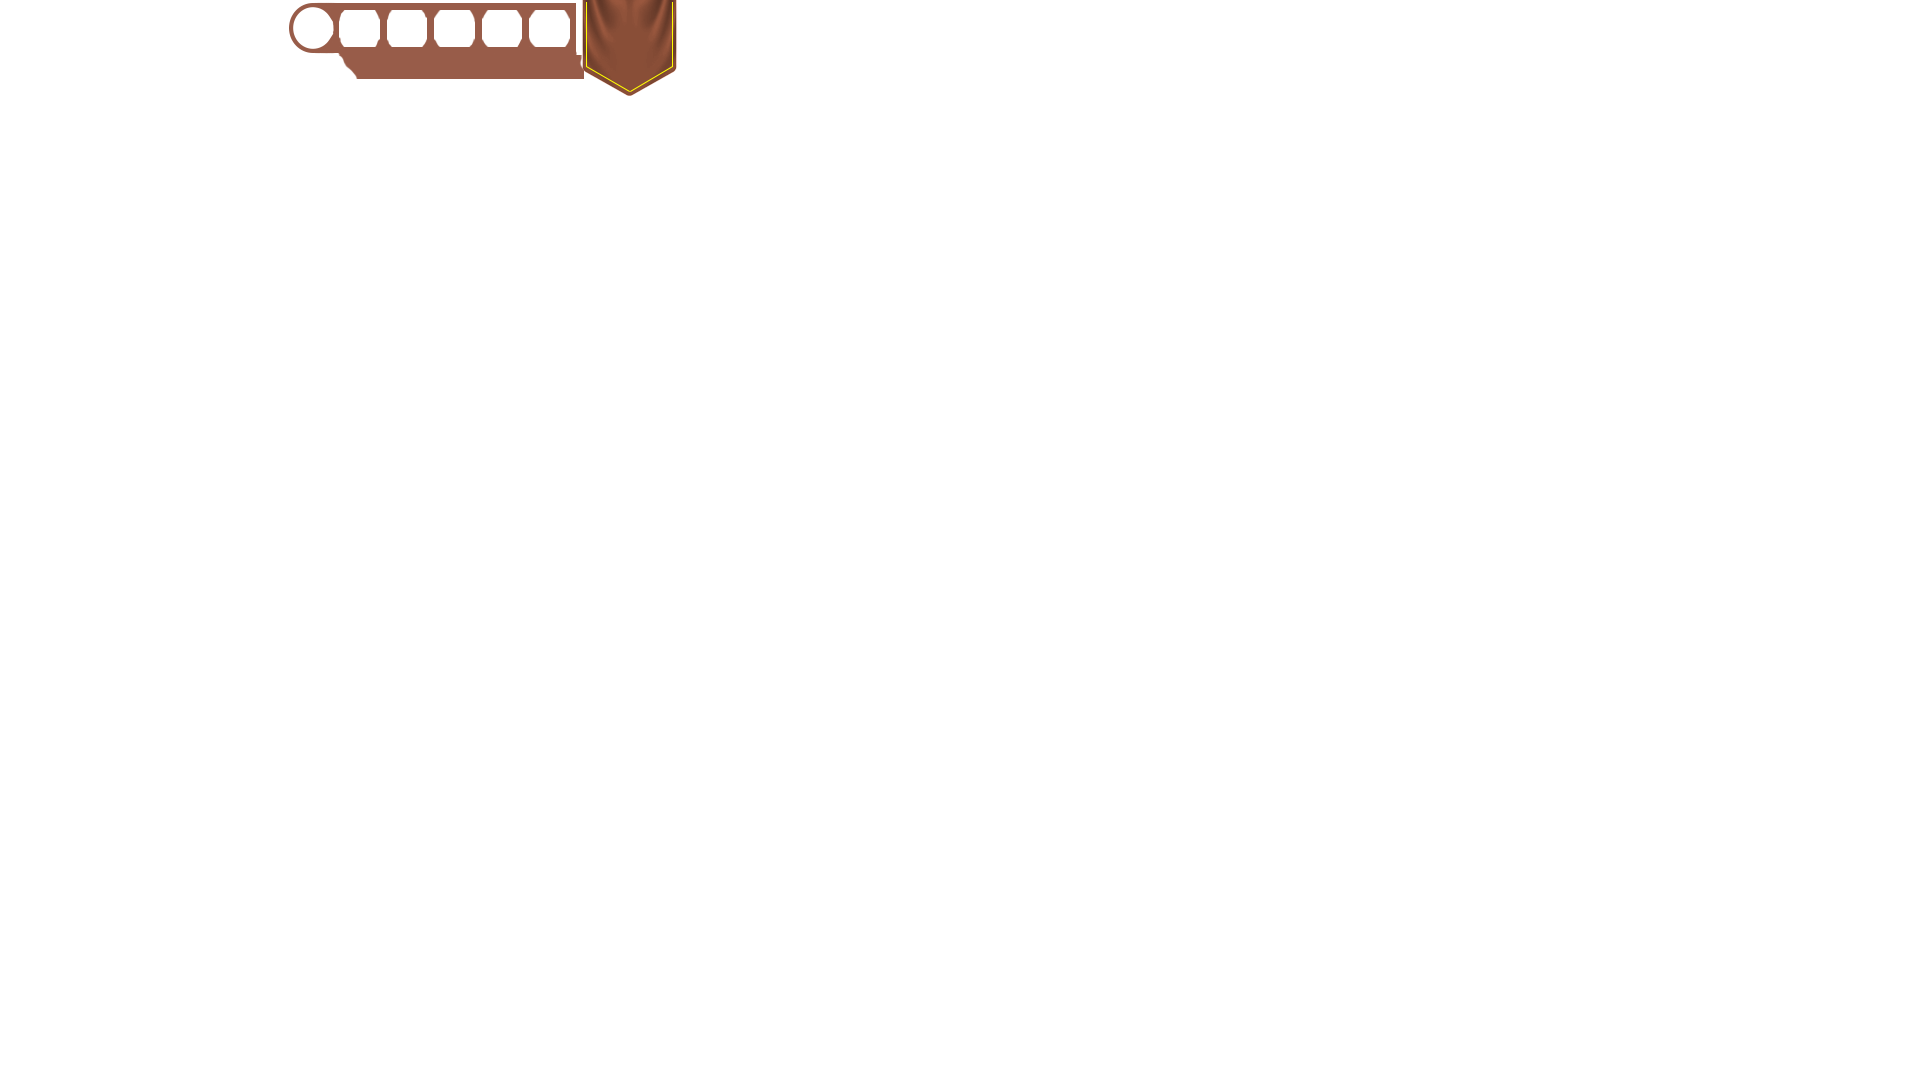
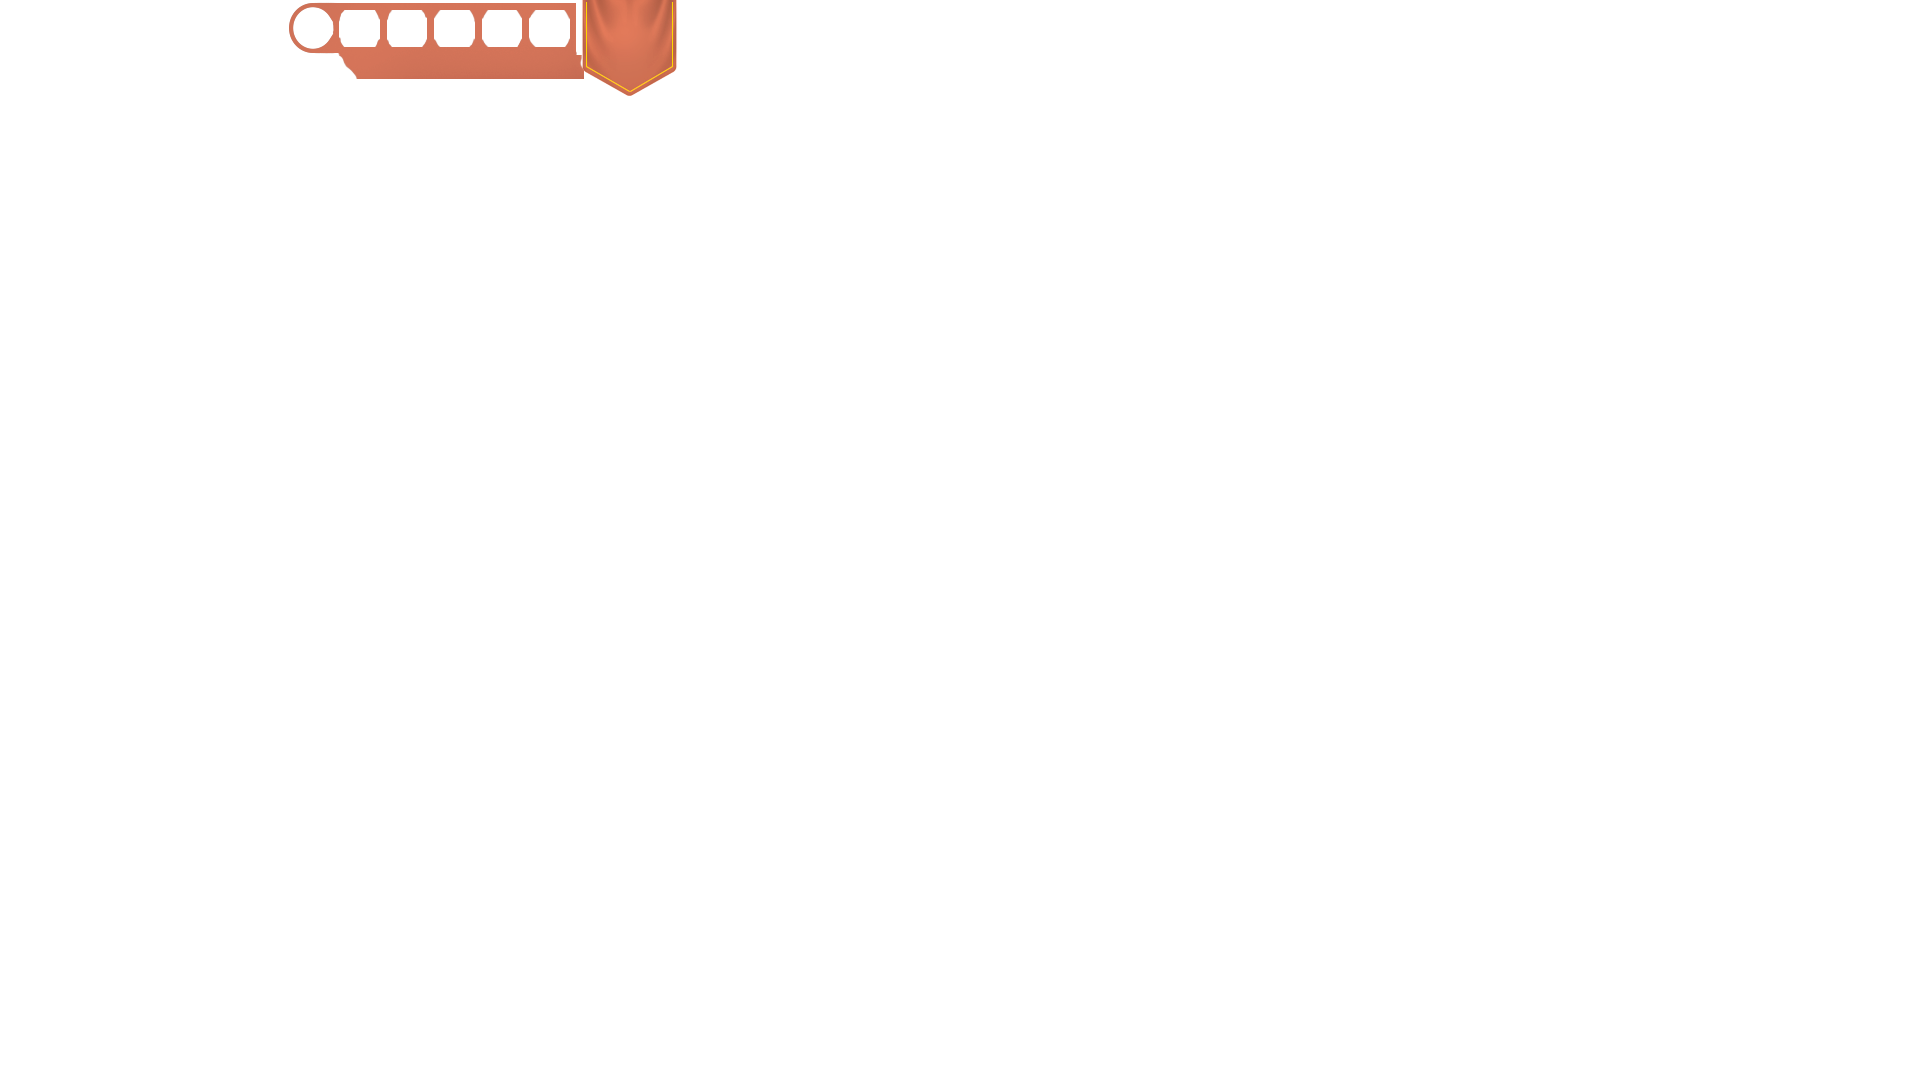
refactor: :recycle: change colors hexadecimal and rename wine and turquoise

Changed region(s): [[0.1562, 0.0, 0.375, 0.0917]]

diff --git a/AoM/dados.html b/AoM/dados.html
@@ -254,8 +254,8 @@
             <option value="ciano">Ciano</option>
             <option value="rosa">Rosa</option>
             <option value="laranja">Laranja</option>
-            <option value="magenta">Magenta</option>
-            <option value="verdeagua">Verde Agua</option>
+            <option value="vinho">Vinho</option>
+            <option value="turquesa">Turquesa</option>
             <option value="salmao">Salmao</option>
             <option value="roxo">Roxo</option>
             <option value="cinza">Cinza</option>
@@ -271,8 +271,8 @@
             <option value="ciano">Ciano</option>
             <option value="rosa">Rosa</option>
             <option value="laranja">Laranja</option>
-            <option value="magenta">Magenta</option>
-            <option value="verdeagua">Verde Agua</option>
+            <option value="vinho">Vinho</option>
+            <option value="turquesa">Turquesa</option>
             <option value="salmao">Salmao</option>
             <option value="roxo">Roxo</option>
             <option value="cinza">Cinza</option>
@@ -1426,17 +1426,17 @@
 
     // NOVO: Mapa de cores escuras para o background
     const colorMap = {
-      'azul': '#0a0b33', // Dark Blue/Indigo (Original Player 1)
-      'vermelho': '#380c0c', // Dark Red/Maroon (Original Player 2)
-      'amarelo': '#33330a', // Dark Yellow/Gold
-      'verde': '#0a330a', // Dark Green
-      'ciano': '#0a3333', // Dark Cyan/Teal
-      'rosa': '#330a33', // Dark Pink/Violet
-      'laranja': '#331a0a', // Dark Orange
-      'magenta': '#330a21', // Dark Magenta
-      'verdeagua': '#0a2133', // Dark Aqua
-      'salmao': '#331f21', // Dark Salmon
-      'roxo': '#210a33', // Dark Purple
+      'azul': '#1d1d4a', // Dark Blue/Indigo (Original Player 1)
+      'vermelho': '#541b1b', // Dark Red/Maroon (Original Player 2)
+      'amarelo': '#a2a232', // Dark Yellow/Gold
+      'verde': '#275d26', // Dark Green
+      'ciano': '#2996a0', // Dark Cyan/Teal
+      'rosa': '#6b016b', // Dark Pink/Violet
+      'laranja': '#a05c0e', // Dark Orange
+      'vinho': '#590e28', // Dark Wine
+      'turquesa': '#026d48', // Dark Turquoise
+      'salmao': '#985c49', // Dark Salmon
+      'roxo': '#3f076d', // Dark Purple
       'cinza': '#222222' // Dark Gray
     };
 
